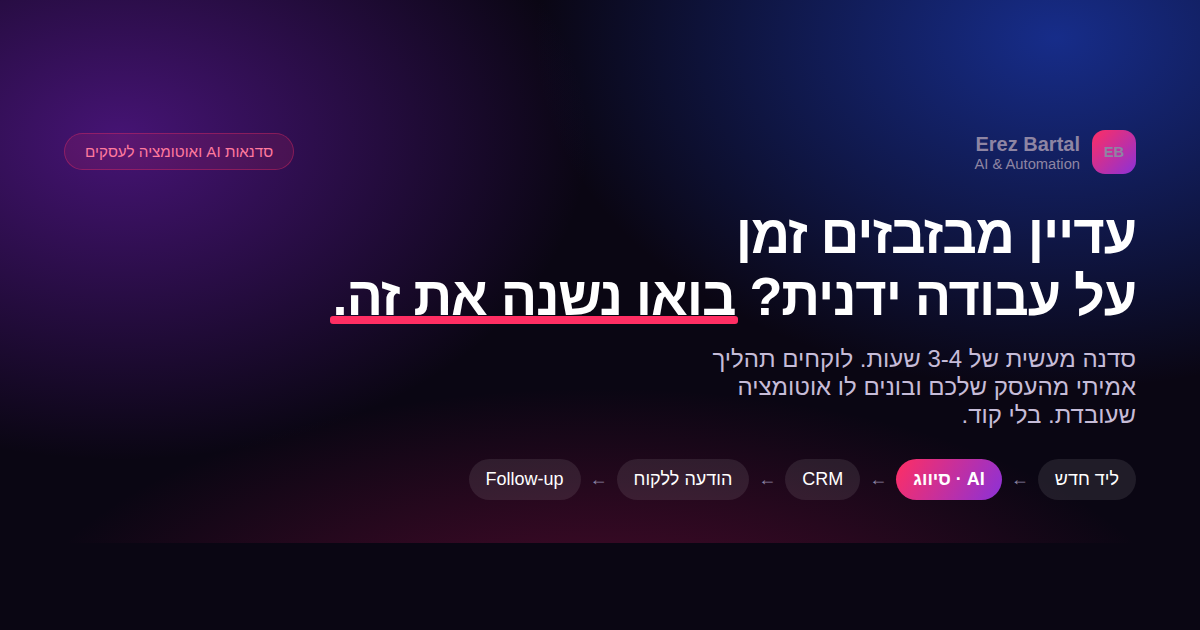
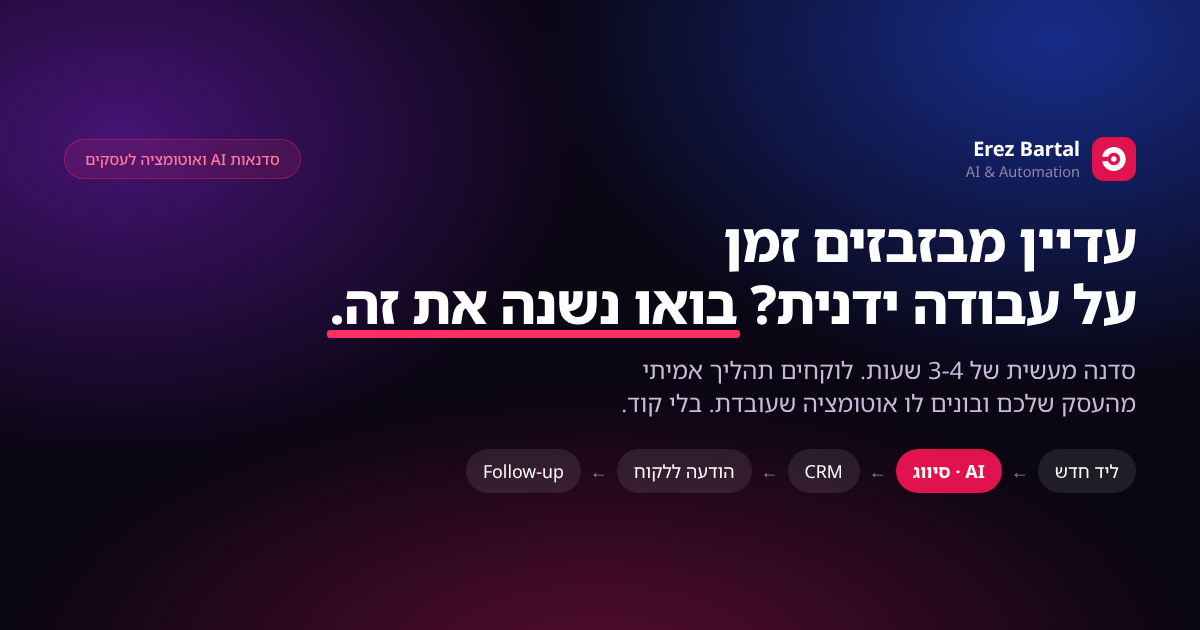
תמונת השיתוף עם הלוגו האדום
- og-cover.html: הלוגו האמיתי במקום סימן EB בגרדיאנט, תגית ה-AI באדום
  אחיד, פונט Noto Sans Hebrew (Rubik לא נטען בעמוד)
- שם המותג בלבן; שורת המשנה ברוחב שלא משאיר מילה בודדת
- og-cover.png רונדר מחדש ב-1200x630

Claude-Session: https://claude.ai/code/session_01EEJ14fh3LcfLuMsvPXFmL5

diff --git a/tools/og-cover.html b/tools/og-cover.html
@@ -8,27 +8,26 @@
       radial-gradient(65% 85% at 10% 22%, rgba(106,28,176,.62) 0%, transparent 60%),
       radial-gradient(80% 70% at 50% 105%, rgba(176,18,82,.45) 0%, transparent 62%),
       #0A0613;
-    color:#fff;font-family:"Rubik",sans-serif;
+    color:#fff;font-family:"Noto Sans Hebrew",sans-serif;
     padding:56px 64px;display:flex;flex-direction:column;justify-content:center;gap:30px}
   .top{display:flex;align-items:center;justify-content:space-between}
-  .brand{display:flex;align-items:center;gap:12px;font-family:"Rubik",sans-serif}
-  .logo{width:44px;height:44px;border-radius:13px;background:linear-gradient(135deg,#FF2E63,#8B31D8);
-    display:grid;place-items:center;font-weight:800;font-size:1.1rem}
-  .brand b{font-weight:700;font-size:1.25rem;display:block;line-height:1.2}
+  .brand{display:flex;align-items:center;gap:12px;font-family:"Noto Sans Hebrew",sans-serif}
+  .logo{width:44px;height:44px;display:block}
+  .brand b{font-weight:700;font-size:1.25rem;display:block;line-height:1.2;color:#fff}
   .brand span{color:#8E85A3;font-size:.92rem}
-  .tag{font-family:"Rubik",sans-serif;font-weight:500;font-size:.95rem;color:#FF7A9E;
+  .tag{font-family:"Noto Sans Hebrew",sans-serif;font-weight:500;font-size:.95rem;color:#FF7A9E;
     background:rgba(255,46,99,.12);border:1px solid rgba(255,46,99,.34);padding:9px 20px;border-radius:999px}
-  h1{font-family:"Rubik",sans-serif;font-weight:800;font-size:54px;line-height:1.14;letter-spacing:-.02em}
+  h1{font-family:"Noto Sans Hebrew",sans-serif;font-weight:800;font-size:54px;line-height:1.14;letter-spacing:-.02em}
   .mark{position:relative;white-space:nowrap}
   .mark::after{content:"";position:absolute;inset-inline:-3px;bottom:.03em;height:.15em;background:#FF2E63;border-radius:3px;z-index:-1}
-  p.sub{font-size:24px;color:#C6BCD8;max-width:36ch}
+  p.sub{font-size:24px;color:#C6BCD8;max-width:40ch}
   .flow{display:flex;align-items:center;gap:9px;font-size:18px;flex-wrap:wrap}
   .pill{background:rgba(255,255,255,.09);padding:10px 17px;border-radius:999px;white-space:nowrap}
-  .pill.ai{background:linear-gradient(120deg,#FF2E63,#8B31D8);font-family:"Rubik",sans-serif;font-weight:700}
+  .pill.ai{background:#E0134E;font-family:"Noto Sans Hebrew",sans-serif;font-weight:700}
   .arw{color:#8E85A3}
 </style></head><body>
   <div class="top">
-    <div class="brand"><span class="logo">EB</span><span><b>Erez Bartal</b><span>AI &amp; Automation</span></span></div>
+    <div class="brand"><img class="logo" src="../assets/img/logo.svg" alt=""><span><b>Erez Bartal</b><span>AI &amp; Automation</span></span></div>
     <span class="tag">סדנאות AI ואוטומציה לעסקים</span>
   </div>
   <div>
